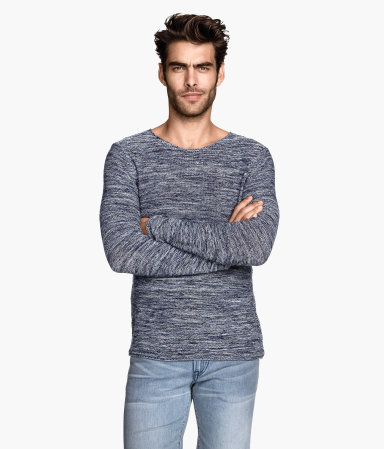
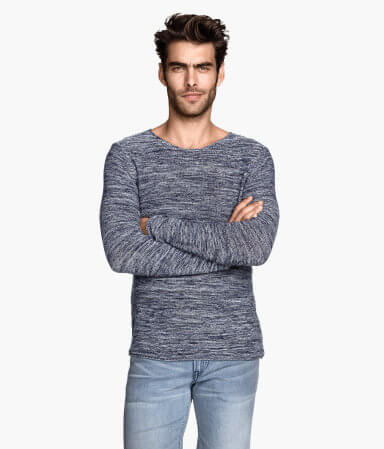
Compressed images, sizes redone

Changed region(s): [[0.6562, 0.4365, 0.6875, 0.4677], [0.3438, 0.4989, 0.375, 0.5301]]

diff --git a/main.css b/main.css
@@ -116,12 +116,13 @@ nav ul li a {
 /**** PRODUCTS ****/
 .products {
 	overflow: hidden;
-	width: 80%;
+	width: 70%;
+
 	margin: 10px auto;
 }
 .products div {
 	width: 32.33%;
-	height: 385px;
+	min-height: 385px;
 	margin: 0.5%;
 	float: left;
 	border: 2px solid black;
@@ -276,7 +277,7 @@ footer ul li a {
 
 /**** LANDSCAPE PHONE, PORTRAIT TABLET ****/
 
-@media only screen and (max-width: 1024px), and (min-width: 321px) {
+@media only screen and (max-width: 1024px), and (min-width: 481px) {
 
 	nav {
 		margin-top: 10px;
@@ -321,10 +322,12 @@ footer ul li a {
 	}
 
 	.products div {
-		width: 49%;
+		width: 40%;
+		margin-left: 4%;
+		margin-right: 4%;
 		border: 2px solid black;
 		background-size: 100% 100%;
-		min-height: 300px;
+		min-height: 380px;
 	}
 
 	.products div:hover {
@@ -342,7 +345,7 @@ footer ul li a {
 }
 
 /**** MOBILE ****/
-@media only screen and (max-width: 320px), and (max-device-width: 320px) {
+@media only screen and (max-width: 480px), and (max-device-width: 480px) {
 
 	.offer {
 		height: 20px;
@@ -369,7 +372,8 @@ footer ul li a {
 	}
 
 	.products div {
-		width: 99%;
+		width: 80%;
+		margin-left: 10%;
 		border: 2px solid black;
 		background-size: 100% 100%;
 		min-height: 350px;
